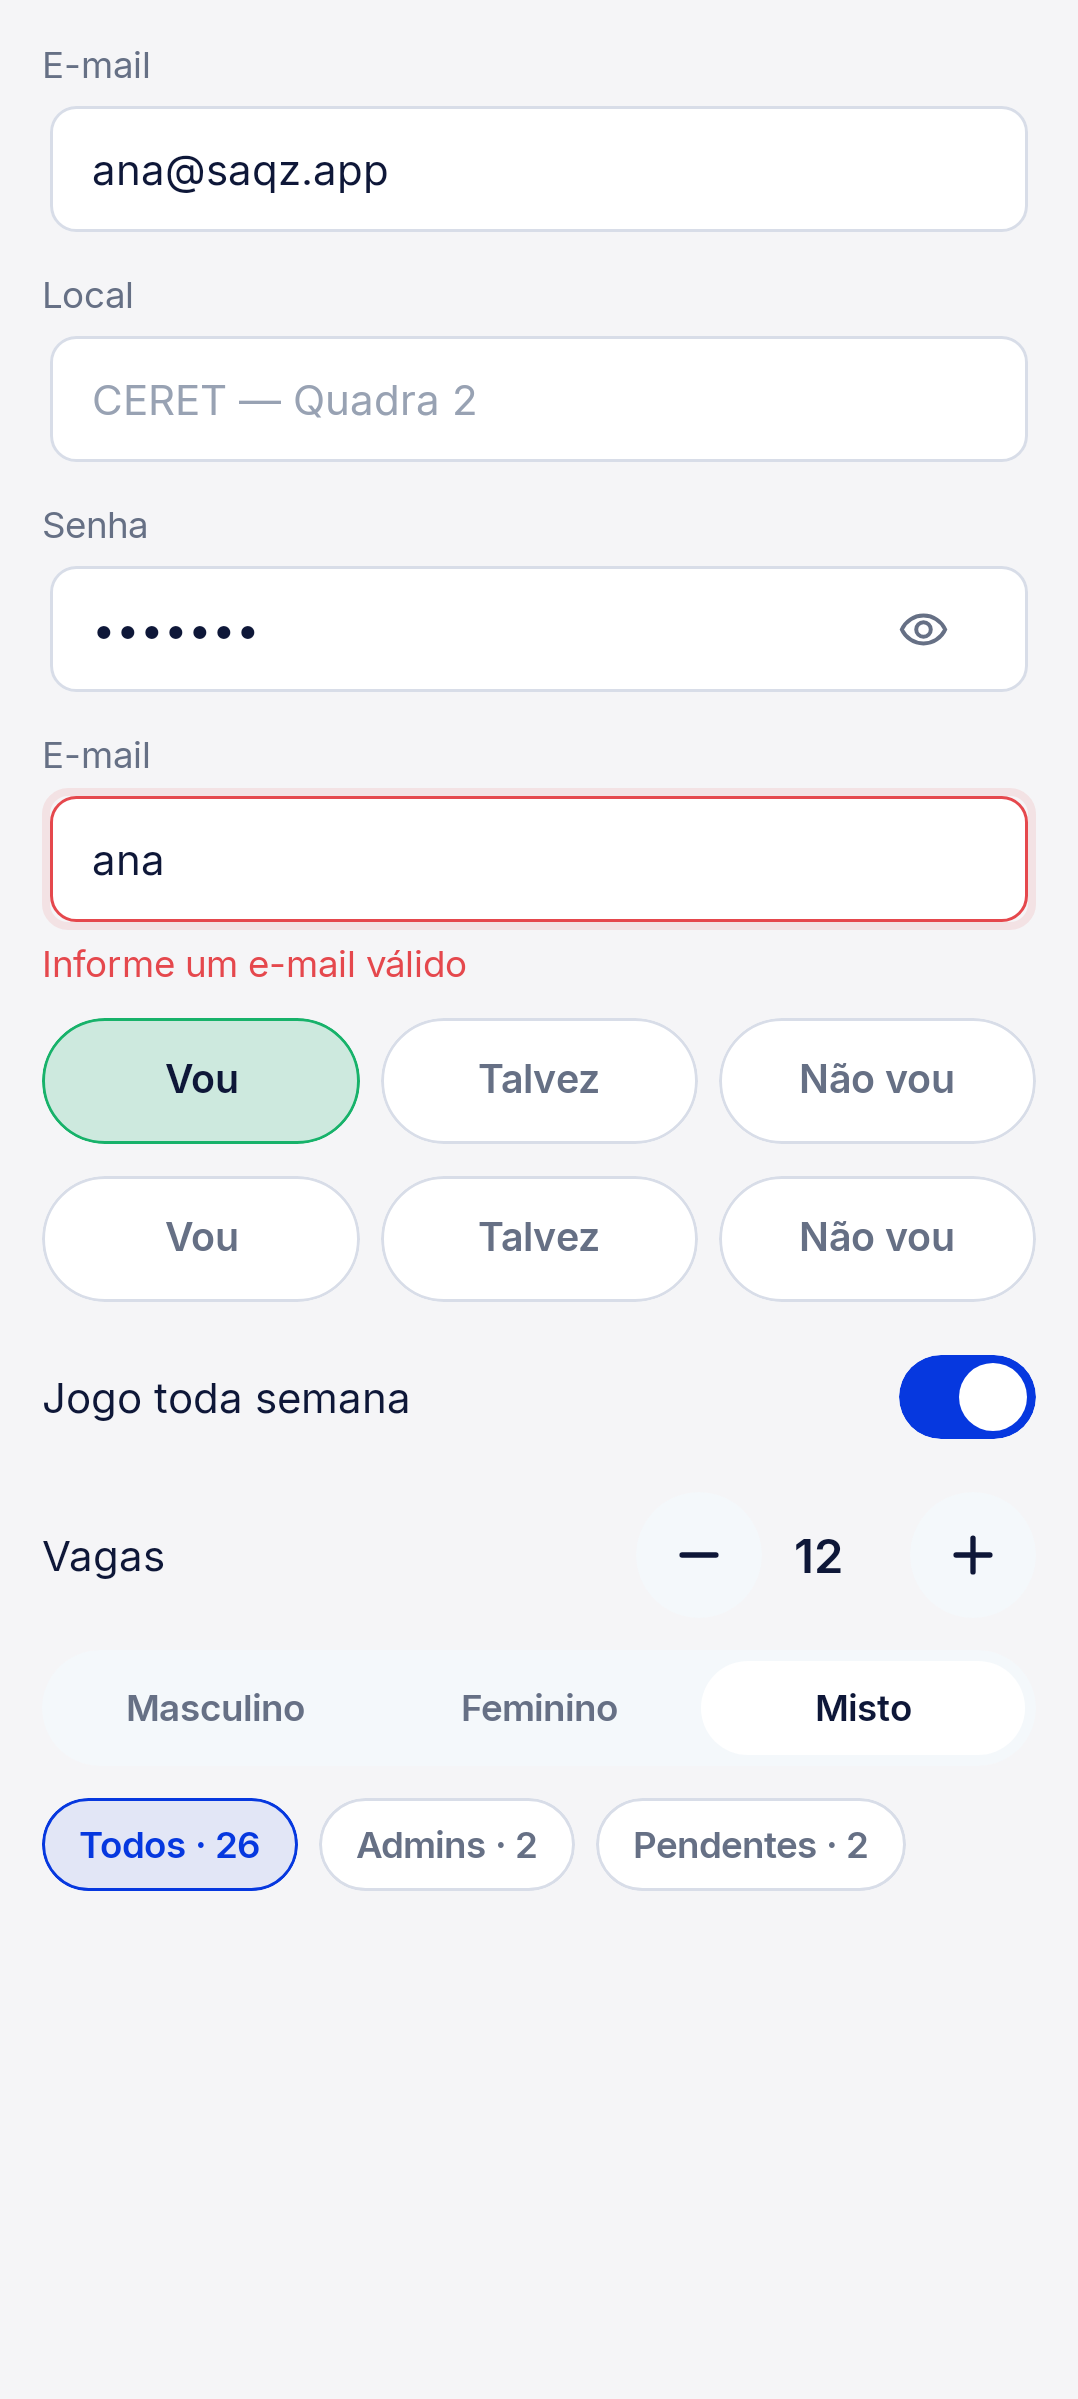
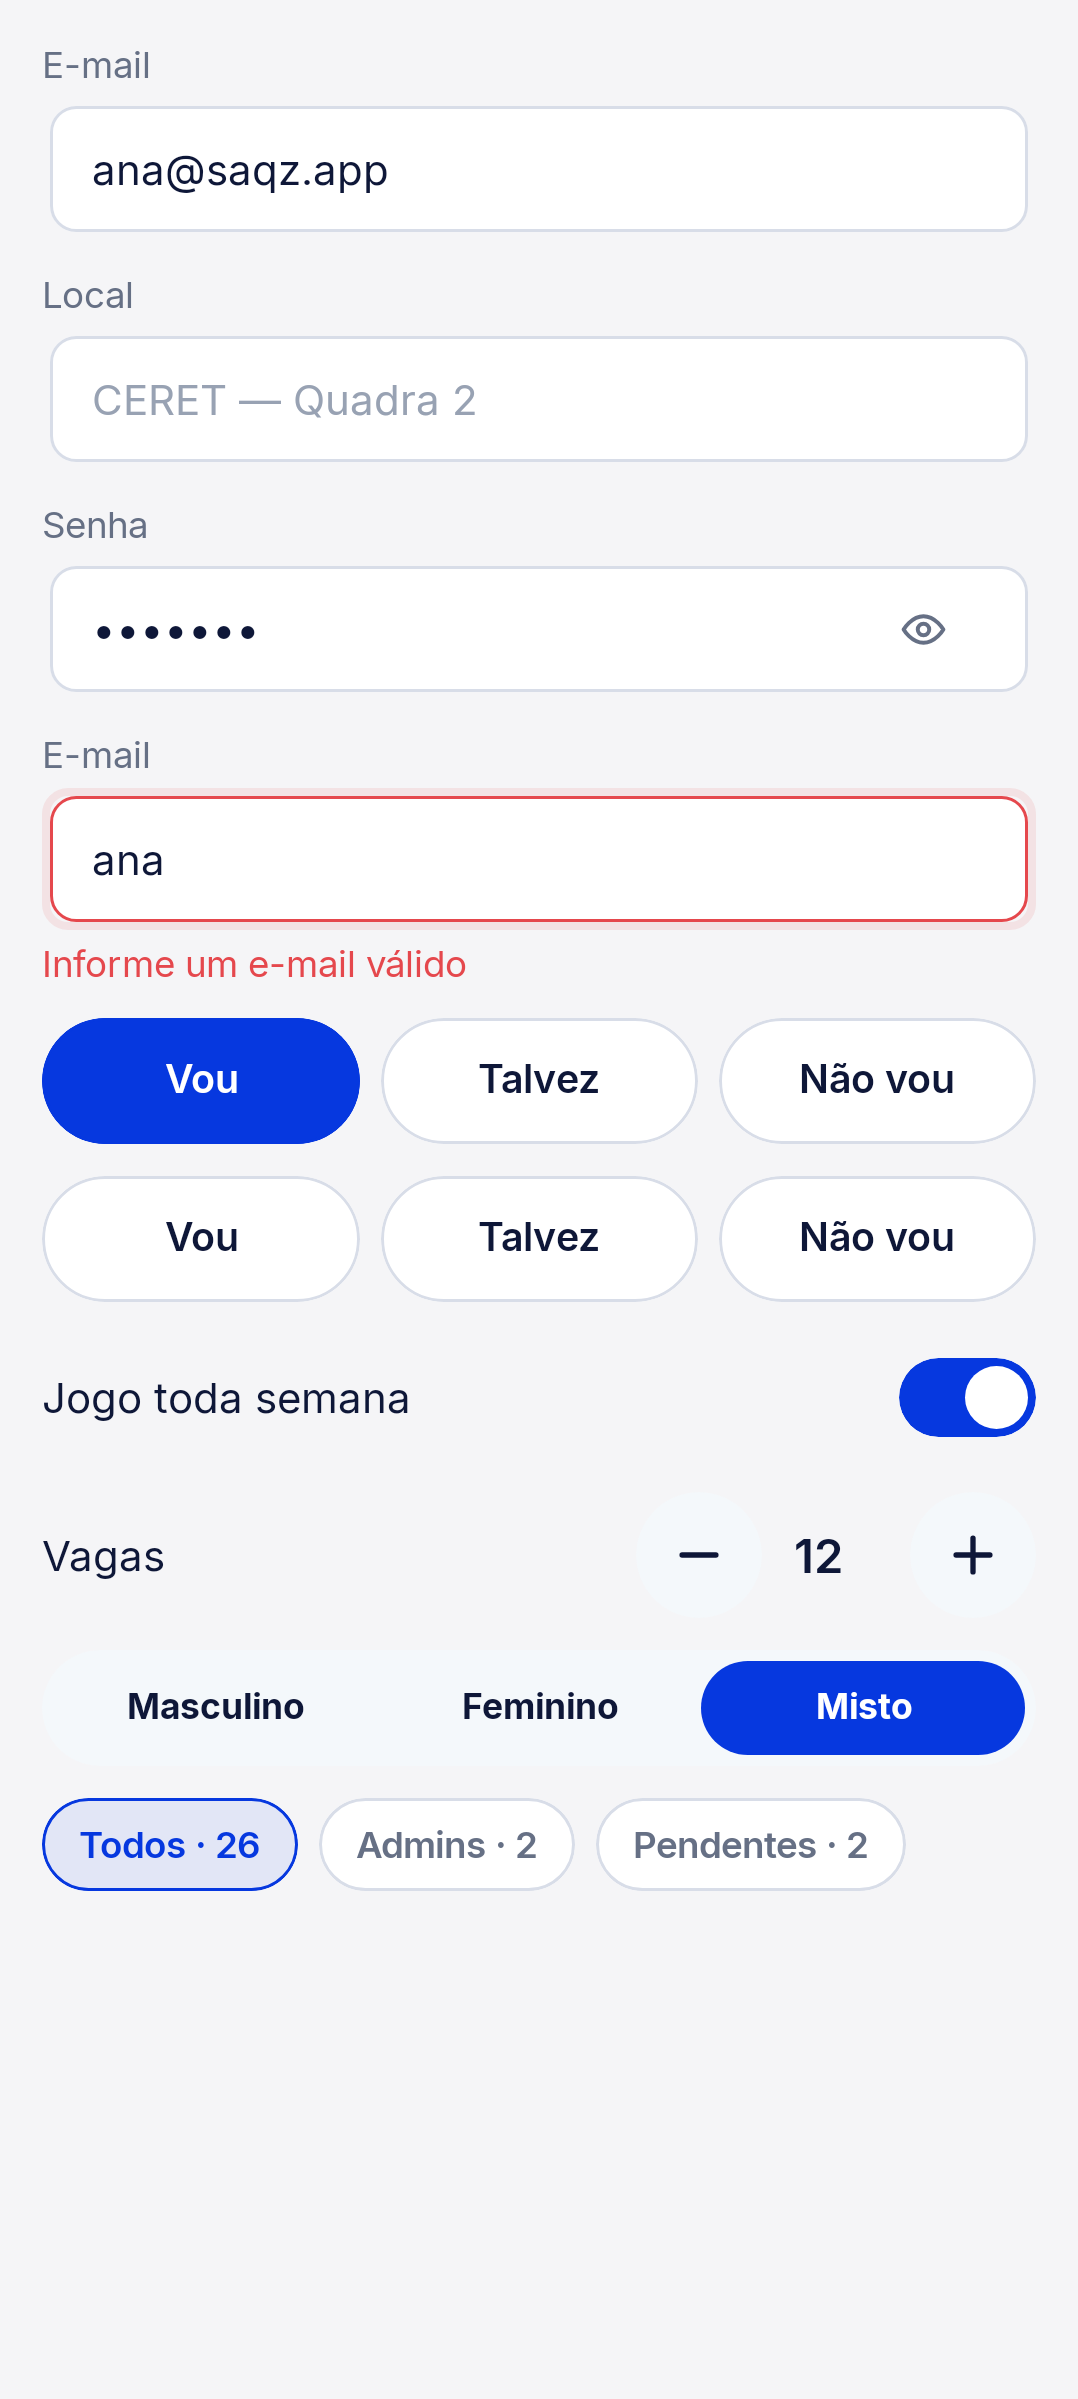
fix(design-system): resposta escolhida continua legível com o seletor travado
O preenchimento sólido do VUL-45 entrou em main sem tratar o desabilitado: o
rótulo caía para `disabledForeground` enquanto o fundo seguia saturado. Sobre o
vermelho de "Não vou" isso dava 1,01:1 — o rótulo sumia.

A ordem das condições passa a pôr `selected` antes de `!enabled`. Desabilitado
aqui quer dizer "o prazo fechou, não dá mais para mudar", não "esqueça o que você
respondeu": a resposta registrada mantém contraste cheio, e quem sinaliza o
travamento são as opções não escolhidas, que perdem o navy.

A WCAG 1.4.3 isenta componente inativo de mínimo de contraste — mas a resposta
escolhida deixou de ser controle e virou informação, então não se enquadra.

A captura de review passa a incluir a linha desabilitada. A ausência dela na
original é o motivo de o problema ter atravessado revisão visual sem ser visto.

diff --git a/mobile/core/design-system/src/commonTest/kotlin/br/com/saqz/designsystem/SaqzAttendanceSelectorTest.kt b/mobile/core/design-system/src/commonTest/kotlin/br/com/saqz/designsystem/SaqzAttendanceSelectorTest.kt
@@ -1,0 +1,89 @@
+package br.com.saqz.designsystem
+
+import androidx.compose.ui.graphics.Color
+import br.com.saqz.designsystem.theme.SaqzColorTokens
+import kotlin.math.pow
+import kotlin.test.Test
+import kotlin.test.assertEquals
+import kotlin.test.assertTrue
+
+class SaqzAttendanceSelectorTest {
+    private val tokens = SaqzColorTokens.Light
+
+    @Test
+    fun eachIntentFillsWithItsExportColor() {
+        assertEquals(tokens.primary, tokens.attendanceFill(SaqzAttendance.Going))
+        assertEquals(tokens.accent, tokens.attendanceFill(SaqzAttendance.Maybe))
+        assertEquals(tokens.errorForeground, tokens.attendanceFill(SaqzAttendance.Out))
+    }
+
+    @Test
+    fun onlyMaybeKeepsNavyOverTheSolid() {
+        assertEquals(tokens.onPrimary, tokens.attendanceOnFill(SaqzAttendance.Going))
+        assertEquals(tokens.textPrimary, tokens.attendanceOnFill(SaqzAttendance.Maybe))
+        assertEquals(tokens.onPrimary, tokens.attendanceOnFill(SaqzAttendance.Out))
+    }
+
+    @Test
+    fun unselectedLabelIsNavyAndFadesWhenDisabled() {
+        SaqzAttendance.entries.forEach { intent ->
+            assertEquals(
+                tokens.textPrimary,
+                tokens.attendanceLabel(intent, selected = false, enabled = true),
+            )
+            assertEquals(
+                tokens.disabledForeground,
+                tokens.attendanceLabel(intent, selected = false, enabled = false),
+                "opção não escolhida precisa recuar quando o seletor trava ($intent)",
+            )
+        }
+    }
+
+    // A regressão que o review pegou: o rótulo olhava `enabled` mas o fundo não, então
+    // desabilitado + selecionado punha cinza sobre o sólido — 1.01:1 no "Não vou".
+    @Test
+    fun disabledKeepsTheChosenAnswerOnItsSolid() {
+        SaqzAttendance.entries.forEach { intent ->
+            assertEquals(
+                tokens.attendanceOnFill(intent),
+                tokens.attendanceLabel(intent, selected = true, enabled = false),
+                "a resposta registrada não pode perder a cor de conteúdo ao travar ($intent)",
+            )
+        }
+    }
+
+    @Test
+    fun selectedLabelClearsThreeToOneOnItsFillEvenWhenDisabled() {
+        listOf(true, false).forEach { enabled ->
+            SaqzAttendance.entries.forEach { intent ->
+                val ratio = contrast(
+                    tokens.attendanceLabel(intent, selected = true, enabled = enabled),
+                    tokens.attendanceFill(intent),
+                )
+                assertTrue(
+                    ratio >= 3.0,
+                    "$intent com enabled=$enabled ficou em ${ratio.format()}:1 sobre o próprio fill",
+                )
+            }
+        }
+    }
+
+    // ponytail: piso de 3:1 (WCAG AA para texto grande e para componentes de UI), não
+    // 4.5:1 — branco sobre o #E5484D do export dá 3.91:1 no estado habilitado, e a
+    // paleta é do VUL-44. O teto está anotado no PR; subir o piso pede outra cor de
+    // erro, não uma mudança aqui.
+    private fun contrast(a: Color, b: Color): Double {
+        val (hi, lo) = listOf(luminance(a), luminance(b)).sortedDescending()
+        return (hi + 0.05) / (lo + 0.05)
+    }
+
+    private fun luminance(color: Color) =
+        0.2126 * channel(color.red) + 0.7152 * channel(color.green) + 0.0722 * channel(color.blue)
+
+    private fun channel(value: Float): Double {
+        val c = value.toDouble()
+        return if (c <= 0.03928) c / 12.92 else ((c + 0.055) / 1.055).pow(2.4)
+    }
+
+    private fun Double.format() = (this * 100).toInt() / 100.0
+}

diff --git a/mobile/core/design-system/src/commonMain/kotlin/br/com/saqz/designsystem/SaqzAttendanceSelector.kt b/mobile/core/design-system/src/commonMain/kotlin/br/com/saqz/designsystem/SaqzAttendanceSelector.kt
@@ -44,6 +44,27 @@ internal fun SaqzColorTokens.attendanceOnFill(intent: SaqzAttendance): Color =
     if (intent == SaqzAttendance.Maybe) textPrimary else onPrimary
 
 /**
+ * Cor do rótulo. `selected` vem **antes** de `!enabled` de propósito: o fundo sólido
+ * não é apagado quando o seletor trava, então cinza ali ficaria ilegível — o
+ * `disabledForeground` sobre o vermelho de "Não vou" dá 1.01:1, o rótulo some.
+ *
+ * Desabilitado aqui quer dizer "o prazo fechou, não dá mais para mudar", não "esqueça
+ * o que você respondeu": a resposta registrada segue no contraste cheio, e quem carrega
+ * o aviso de travado são as opções **não** escolhidas, que perdem o navy. Essas são
+ * componentes inativos, que a WCAG 1.4.3 isenta de mínimo de contraste; a resposta,
+ * não — ali o pill virou informação, não mais um controle.
+ */
+internal fun SaqzColorTokens.attendanceLabel(
+    intent: SaqzAttendance,
+    selected: Boolean,
+    enabled: Boolean,
+): Color = when {
+    selected -> attendanceOnFill(intent)
+    !enabled -> disabledForeground
+    else -> textPrimary
+}
+
+/**
  * 10g — os três estados de presença, um alvo por opção. A resposta é otimista:
  * quem chama troca [value] na hora e sincroniza depois.
  */
@@ -67,8 +88,7 @@ fun SaqzAttendanceSelector(
         options.forEach { intent ->
             AttendanceOption(
                 label = labels.getValue(intent),
-                fill = SaqzTheme.colors.attendanceFill(intent),
-                onFill = SaqzTheme.colors.attendanceOnFill(intent),
+                intent = intent,
                 selected = value == intent,
                 enabled = enabled,
                 onSelect = { onSelect(intent) },
@@ -81,22 +101,18 @@ fun SaqzAttendanceSelector(
 @Composable
 private fun AttendanceOption(
     label: String,
-    fill: Color,
-    onFill: Color,
+    intent: SaqzAttendance,
     selected: Boolean,
     enabled: Boolean,
     onSelect: () -> Unit,
     modifier: Modifier = Modifier,
 ) {
     val colors = SaqzTheme.colors
+    val fill = colors.attendanceFill(intent)
     Text(
         text = label,
         style = SaqzTheme.typography.label,
-        color = when {
-            !enabled -> colors.disabledForeground
-            selected -> onFill
-            else -> colors.textPrimary
-        },
+        color = colors.attendanceLabel(intent, selected = selected, enabled = enabled),
         textAlign = TextAlign.Center,
         modifier = modifier
             .heightIn(min = SaqzTheme.metrics.minimumTouchTarget)
@@ -116,5 +132,8 @@ private fun SaqzAttendanceSelectorPreview() = SaqzTheme {
         SaqzAttendanceSelector(value = SaqzAttendance.Going, onSelect = {})
         SaqzAttendanceSelector(value = SaqzAttendance.Maybe, onSelect = {})
         SaqzAttendanceSelector(value = SaqzAttendance.Out, onSelect = {})
+        // Prazo de confirmação encerrado com a resposta já dada: o sólido segue legível,
+        // quem recua são as opções que não dão mais para escolher.
+        SaqzAttendanceSelector(value = SaqzAttendance.Out, onSelect = {}, enabled = false)
     }
 }

diff --git a/mobile/android-app/src/test/kotlin/br/com/saqz/androidapp/review/AttendanceSelectorShotTest.kt b/mobile/android-app/src/test/kotlin/br/com/saqz/androidapp/review/AttendanceSelectorShotTest.kt
@@ -58,6 +58,13 @@ class AttendanceSelectorShotTest {
                     SaqzAttendanceSelector(value = SaqzAttendance.Going, onSelect = {})
                     SaqzAttendanceSelector(value = SaqzAttendance.Maybe, onSelect = {})
                     SaqzAttendanceSelector(value = SaqzAttendance.Out, onSelect = {})
+                    // Prazo encerrado com a resposta já dada — o caso que o review do
+                    // Codex pegou: o sólido segue legível, recuam as outras duas.
+                    SaqzAttendanceSelector(
+                        value = SaqzAttendance.Out,
+                        onSelect = {},
+                        enabled = false,
+                    )
                 }
             }
         }
